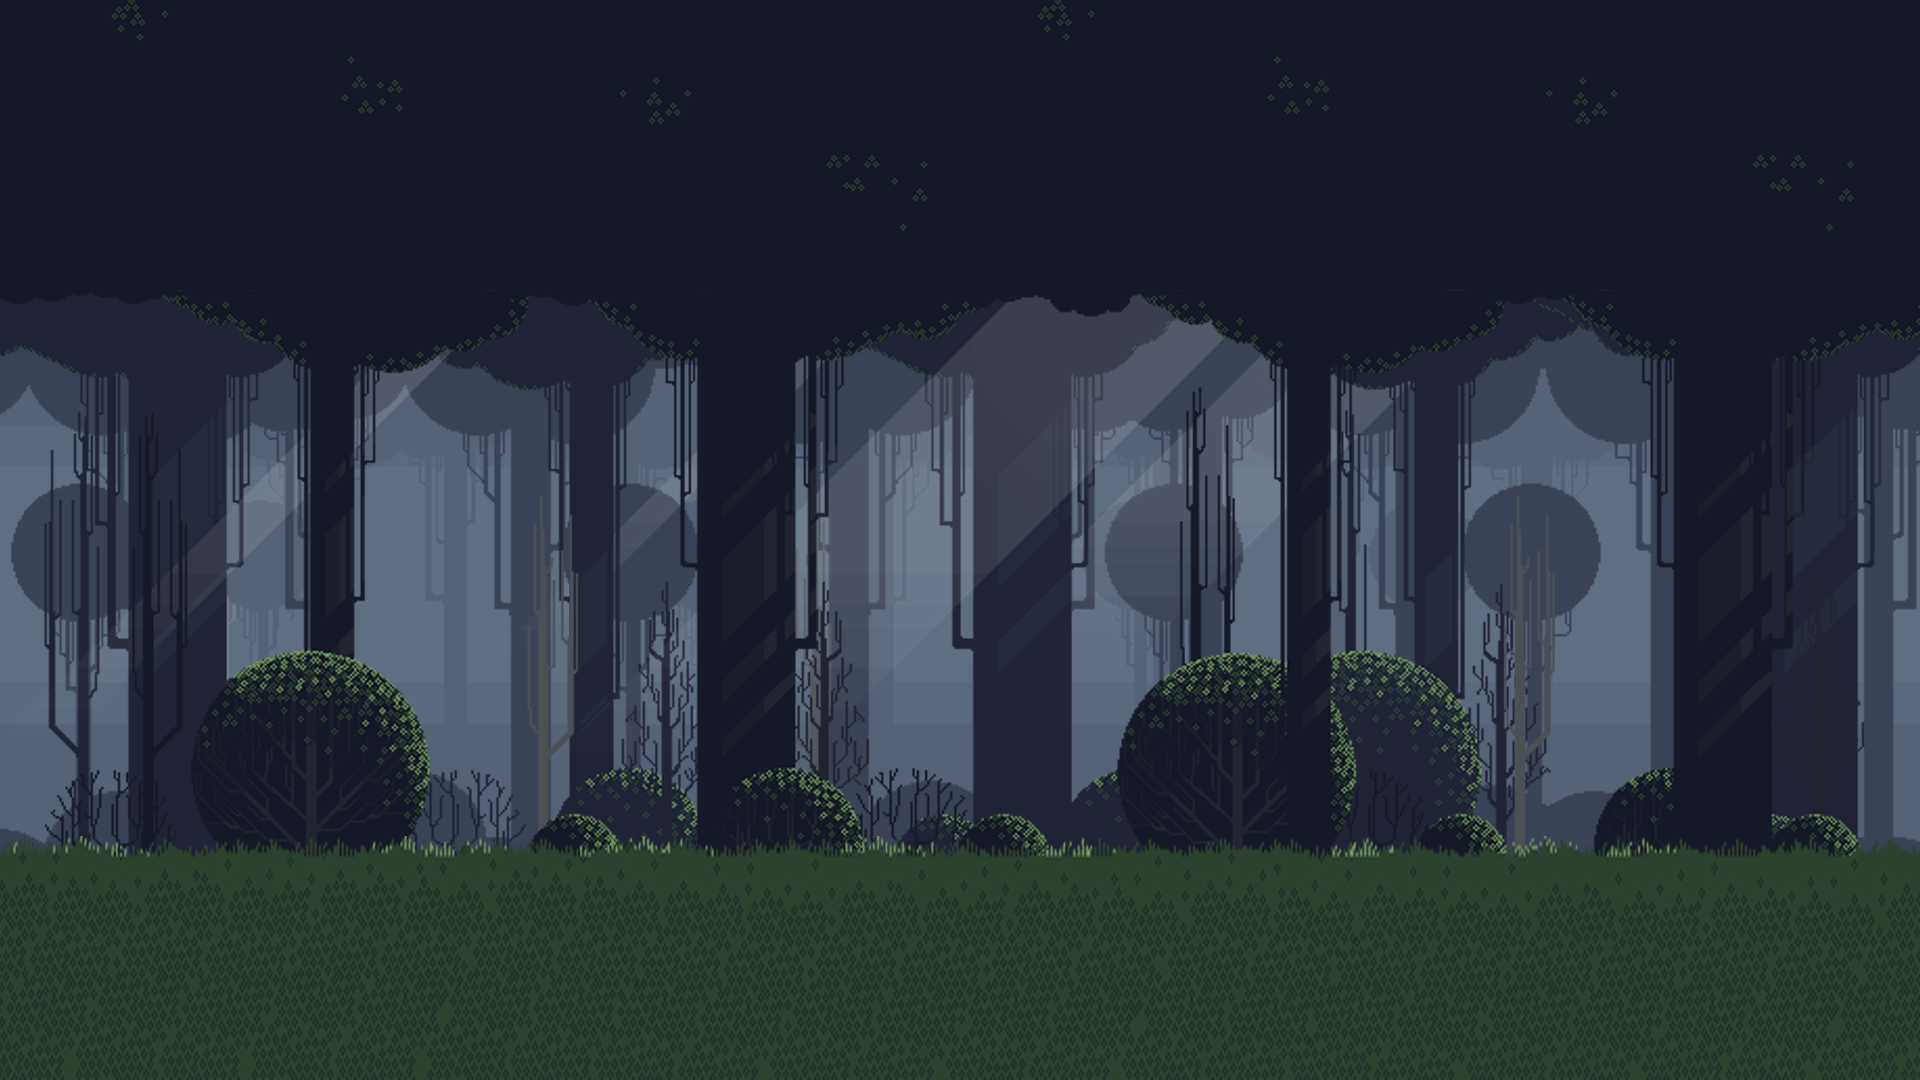
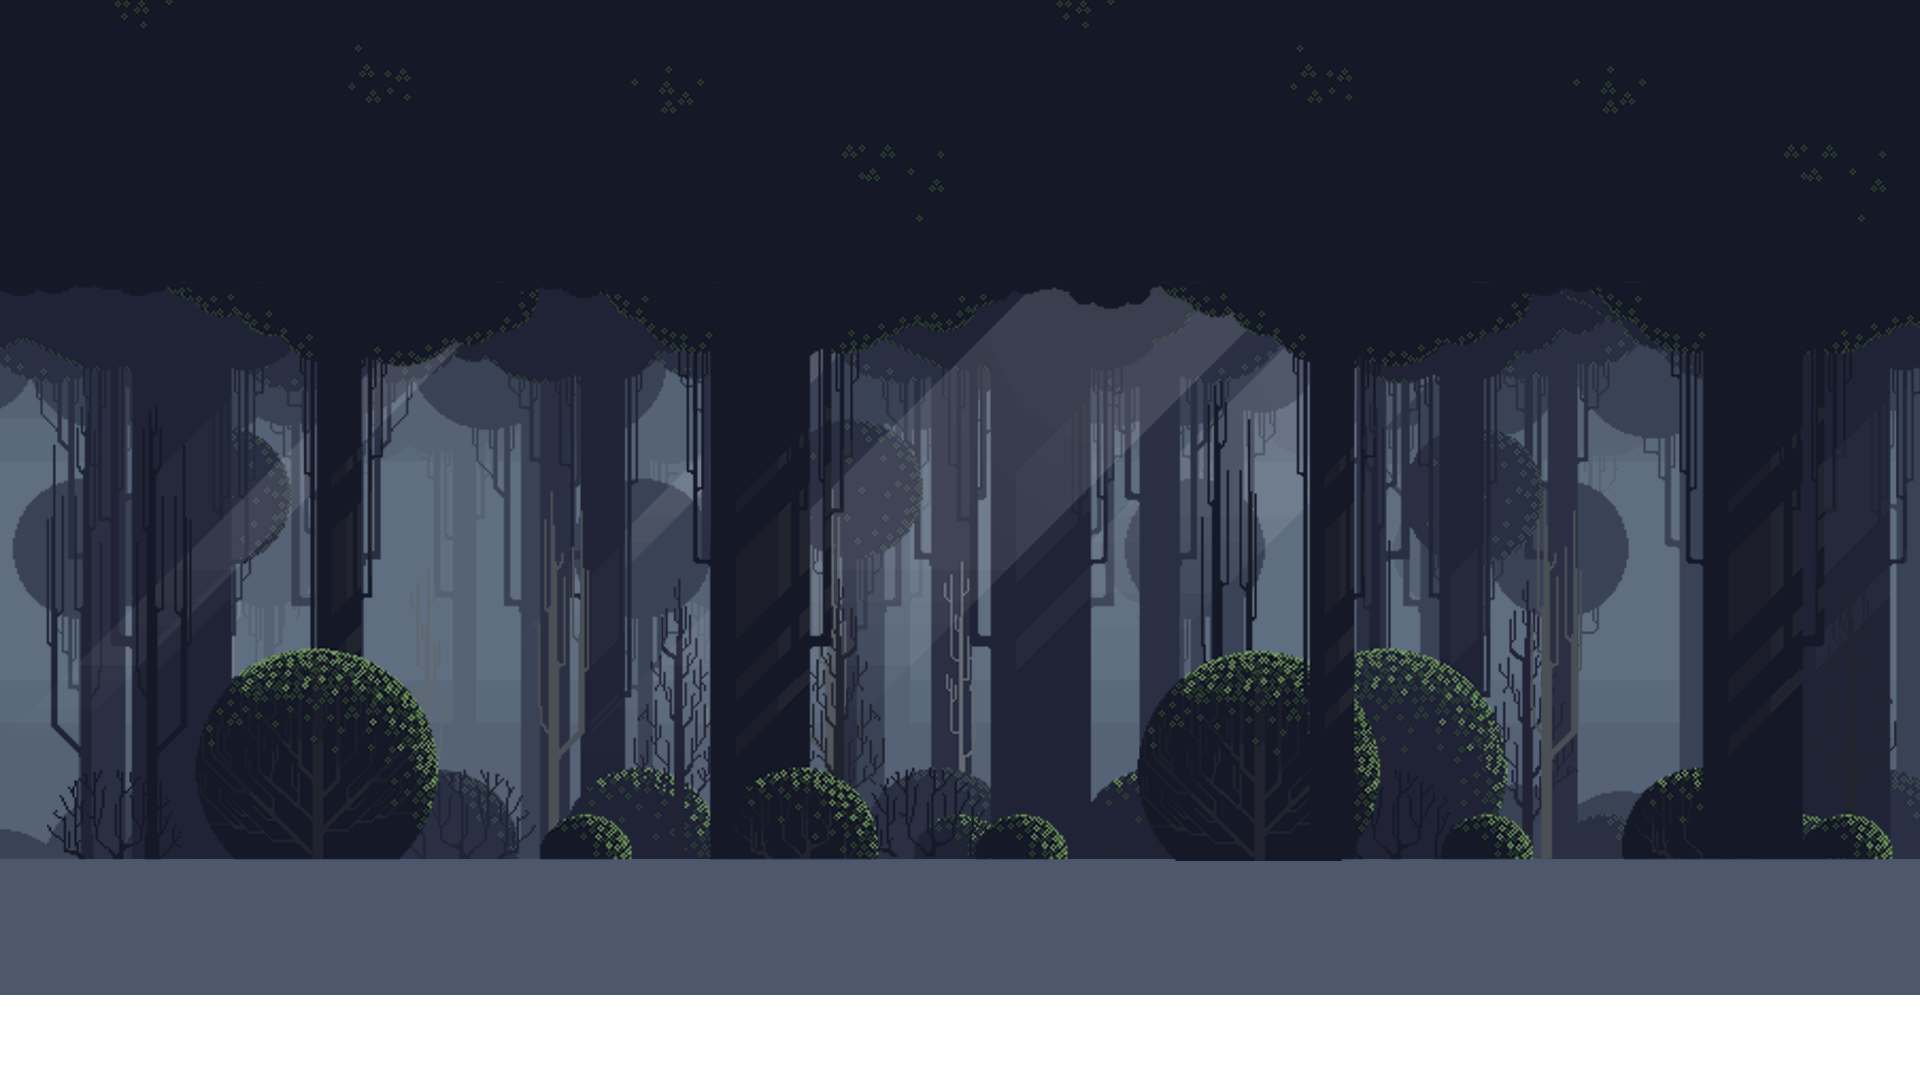
Fixed the collision, changed characters gif and fixed the position Y bug

diff --git a/docs/js/main.js b/docs/js/main.js
@@ -87,12 +87,11 @@ var Game = (function () {
 }());
 var Character = (function () {
     function Character(htmlTag, posX, posY, speedX) {
-        this.width = 80;
-        this.height = 150;
         this.div = document.createElement(htmlTag);
         this.posX = posX;
         this.posY = posY;
         this.speedX = speedX;
+        this.div.style.bottom = this.posY + "px";
         document.body.appendChild(this.div);
     }
     Character.prototype.move = function () {
@@ -100,7 +99,7 @@ var Character = (function () {
         this.draw();
     };
     Character.prototype.draw = function () {
-        this.div.style.transform = "translate(" + this.posX + "px, " + this.posY + "px)";
+        this.div.style.transform = "translate(" + this.posX + "px, 0px)";
     };
     return Character;
 }());
@@ -136,9 +135,11 @@ var Gameover = (function (_super) {
 var Hero = (function (_super) {
     __extends(Hero, _super);
     function Hero() {
-        var _this = _super.call(this, "hero", (window.innerWidth / 2 - 50), 510, 0) || this;
+        var _this = _super.call(this, "hero", (window.innerWidth / 2 - 50), 150, 0) || this;
         _this.imageString = "";
         _this.isAttacking = false;
+        _this.width = 70;
+        _this.height = 150;
         window.addEventListener("keydown", function (event) { return _this.onKeyDown(event); });
         window.addEventListener("keyup", function (event) { return _this.onKeyUp(event); });
         return _this;
@@ -173,7 +174,6 @@ var Hero = (function (_super) {
     };
     Hero.prototype.onKeyUp = function (event) {
         this.speedX = 0;
-        this.posY = 510;
         switch (event.keyCode) {
             case 32:
                 this.isAttacking = false;
@@ -239,10 +239,10 @@ var Winscreen = (function (_super) {
 var Zombie = (function (_super) {
     __extends(Zombie, _super);
     function Zombie(randomPosX) {
-        var _this = _super.call(this, "zombie", randomPosX, 535, 1) || this;
+        var _this = _super.call(this, "zombie", randomPosX, 140, 1) || this;
+        _this.width = 70;
+        _this.height = 150;
         _this.posX = randomPosX;
-        _this.div.style.top = _this.posY + "px";
-        _this.div.style.backgroundImage = "url('../docs/images/zombie-flipped.gif')";
         _this.move();
         return _this;
     }
@@ -257,6 +257,8 @@ var Zombie = (function (_super) {
         else if (this.posX < 0 - 45) {
             console.log('move to left');
             this.speedX = this.speedX * -1;
+            this.imageString = "-flipped";
+            this.div.style.backgroundImage = "url('../docs/images/zombie" + this.imageString + ".gif')";
             this.div.style.transform = "scaleX(-1)";
         }
         this.div.style.transform = "translate(" + this.posX + "px, 0px)";

diff --git a/dev/zombie.ts b/dev/zombie.ts
@@ -3,13 +3,13 @@
 class Zombie extends Character{
     
     private imageString : string;
+    
+    public width:number = 70;
+    public height:number = 150;
 
     constructor(randomPosX){
-        super("zombie", randomPosX, 535 , 1 );  
+        super("zombie", randomPosX, 140 , 1 );  
         this.posX = randomPosX;
-    
-        this.div.style.top = this.posY + "px";
-        this.div.style.backgroundImage = "url('../docs/images/zombie-flipped.gif')";
 
         this.move();
     }
@@ -23,13 +23,12 @@ class Zombie extends Character{
 
             this.imageString = "";
             this.div.style.backgroundImage = "url('../docs/images/zombie"+this.imageString+".gif')";
-
         } else if(this.posX < 0 - 45){
             console.log('move to left')
             this.speedX = this.speedX * -1;
 
-            // this.imageString = "-flipped";
-            // this.div.style.backgroundImage = "url('../dist/images/zombie"+this.imageString+".GIF')";
+            this.imageString = "-flipped";
+            this.div.style.backgroundImage = "url('../docs/images/zombie"+this.imageString+".gif')";
             this.div.style.transform = "scaleX(-1)";
 
         }

diff --git a/docs/css/style.css b/docs/css/style.css
@@ -99,7 +99,7 @@ startscreen{
 
 hero{
     display: block;
-    width: 100px;
+    width: 70px;
     height: 150px;
     background-image: url(../images/hero-walk.gif);
     background-size: contain;
@@ -119,11 +119,10 @@ hero{
 
 zombie{
     display: block;
-    width: 120px;
+    width: 70px;
     height: 150px;
-    background-image: url(../images/zombie.gif);
+    background-image: url(../images/zombie-flipped.gif);
     background-size: contain;
-    top: 665px;
     transition: 0.1s;
 }
 
@@ -132,6 +131,14 @@ background {
     width:100%; height: 100%;
     background-size: cover;
 }
+
+    background grass{
+        background-image: url(../images/grass.png);
+        width: 100%;
+        height: 180px;
+        background-size: cover;
+        bottom: 0px;
+    }
 
 endscreen{
     display: block;
@@ -181,3 +188,15 @@ endscreen{
         position: relative;
         top: 40px;
     }
+
+herohitbox {
+    border:2px solid red;
+    height:150px; width:70px;
+    /*margin-top:28px;*/
+}
+zombiehitbox {
+    border:2px solid red;
+    height: 150px;
+    width: 70px;
+    /*margin-top:42px;*/
+}

diff --git a/dev/hero.ts b/dev/hero.ts
@@ -1,13 +1,17 @@
 /// <reference path="character.ts"/>
 
-class Hero extends Character{
+
+class Hero extends Character{ 
 
     private imageString :string = "";
     public isAttacking: boolean = false;
 
+    public width:number = 70;
+    public height:number = 150;
+
 
     constructor(){
-        super("hero", (window.innerWidth / 2 - 50), 510, 0);
+        super("hero", (window.innerWidth / 2 - 50), 150, 0);
 
         window.addEventListener("keydown", (event : KeyboardEvent) => this.onKeyDown(event));
         window.addEventListener("keyup", (event : KeyboardEvent) => this.onKeyUp(event));
@@ -51,7 +55,6 @@ class Hero extends Character{
 
     private onKeyUp(event : KeyboardEvent) :void {
         this.speedX = 0;
-        this.posY = 510;
 
         switch(event.keyCode){
         case 32:

diff --git a/dev/character.ts b/dev/character.ts
@@ -3,12 +3,11 @@
 class Character{
 
     protected div:HTMLElement;
+    public hitbox: HTMLElement;
 
     public posX:number;
     public posY:number;
     public speedX:number;
-    public width:number = 80;
-    public height:number = 150;
 
     constructor(htmlTag: string, posX: number, posY: number, speedX: number){
         
@@ -16,6 +15,8 @@ class Character{
         this.posX = posX;
         this.posY = posY;
         this.speedX = speedX;
+
+        this.div.style.bottom = this.posY + "px";
 
         document.body.appendChild(this.div);
 
@@ -28,6 +29,6 @@ class Character{
     }
 
     private draw(): void {
-        this.div.style.transform = "translate("+this.posX+"px, "+this.posY+"px)";
+        this.div.style.transform = "translate("+this.posX+"px, 0px)";
     }
 }

diff --git a/docs/index.html b/docs/index.html
@@ -12,7 +12,9 @@
   <body>
       <lives id="lifeWrap">
       </lives>
-      <background></background>
+      <background>
+        <grass></grass>
+      </background>
       <script src='js/main.js'></script>
   </body>
 </html>

diff --git a/dev/util.ts b/dev/util.ts
@@ -2,7 +2,7 @@ class Util{
 
     constructor(){
     }
-
+    
     public calculateCollision(z: Zombie, h: Hero):boolean{
             return (h.posX < z.posX + z.width &&
                 h.posX + h.width > z.posX &&
